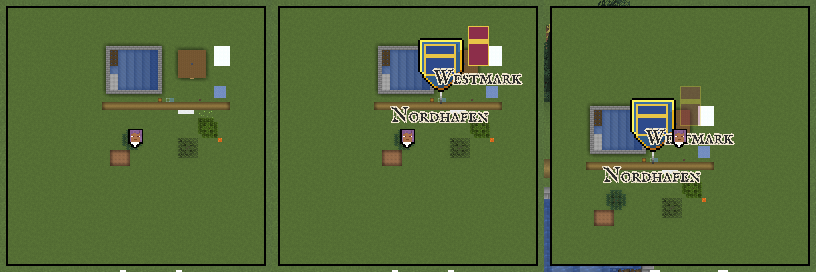
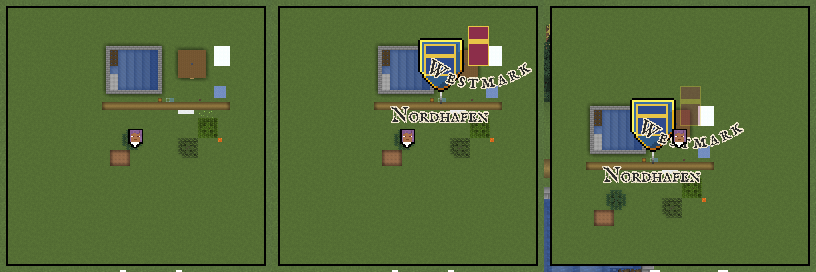
Doku und Bilder zum Namen im Bogen (renderer#262)

Changed region(s): [[0.7659, 0.4412, 0.9191, 0.5588], [0.5208, 0.2059, 0.674, 0.3235], [0.7353, 0.0, 0.7659, 0.0294]]

diff --git a/docs/ebenen.md b/docs/ebenen.md
@@ -105,10 +105,13 @@ die Nachrichten das Plugin:
   Verhältnis 200 zu 320 (`Ebenen.NAME_GROESSE`); die Grossbuchstaben sind so
   rund 6,8 hoch, ihre Oberkante liegt 2 unter dem Fuss. Die Kontur ist 1,25
   Einheiten gewünscht, wie 2 px dort, gekappt wie bei der Kartenschrift auf
-  0,12 der Höhe der Grossbuchstaben, also rund 0,81 (`Formen.kontur`). Der
-  Name reicht 13 Einheiten nach unten (`Ebenen.NAME_UNTEN`). Höchstens 500
-  Namen je Ansicht und Frame, je neun Texte (`Ebenen.MAX_NAMEN`); die
-  übrigen fehlen, das Log sagt es einmal. Das
+  0,12 der Höhe der Grossbuchstaben, also rund 0,81 (`Formen.kontur`). Ein
+  Banner trägt seinen Namen im Bogen, siehe „Banner“; eine Nadel gerade.
+  Der gerade Name reicht 13 Einheiten nach unten (`Ebenen.NAME_UNTEN`).
+  Höchstens 500 Namen je Ansicht und Frame, je
+  neun Texte; ein Name im Bogen zählt je Zeichen einen, denn er zeichnet je
+  Zeichen neun (`Ebenen.MAX_NAMEN`). Die übrigen fehlen, das Log sagt es
+  einmal. Das
   Format sagt: unter dem Fuss, Kartenschrift, feste Grösse, siehe
   [Ebenen](https://github.com/VonNekyia/heroic-map-renderer/blob/master/docs/benutzung/ebenen.md)
   und
@@ -130,9 +133,11 @@ die Nachrichten das Plugin:
 - **Vollbildkarte:** alle Nadeln und Banner, der Fuss auf dem Raster der
   Kacheln wie die Wegpunkte. Unter dem Fuss einer angehefteten Nadel steht
   ein Punkt, 4 Einheiten breit und 2 hoch, zwischen Fuss und Name, in der
-  wechselnden Farbe des Rings der Wegpunkte (`Karte.PUNKT`). Gezeichnet wird, was den Schirm berühren kann: 16 Einheiten
-  zur Seite und 64 nach oben, so viel wie das grösste Banner, der Name 13
-  nach unten und halb so weit zur Seite, wie er samt Kontur breit ist.
+  wechselnden Farbe des Rings der Wegpunkte (`Karte.PUNKT`). Gezeichnet wird, was den Schirm berühren kann: der Kasten
+  ohne Holen (`Ebenen.kastenOhneHolen`), das grösste Bild, 32 × 64, und
+  der Name, gerade halb so weit zur Seite, wie er samt Kontur breit ist,
+  im Bogen sein grober Kasten. Vorher fällt weg, was mehr als 32 Einheiten
+  über dem oberen Rand steht (`Ebenen.UNTEN_HOECHSTENS`).
 - **Reihenfolge:** über allen Formen und aller Kartenschrift jeder Ebene,
   unter Wegpunkten, Mitspielern und dem eigenen Kopf; die Ebenen nach
   `order`, die höhere oben, bei Gleichstand die kleinere `id` oben; in
@@ -170,14 +175,44 @@ Ein Ort als Bild (`banner`), etwa eine Stadt mit dem Banner ihrer Nation
     Einheit, also 40 Einheiten hoch. Der User fand das zu gross (mod#71).
   - Der Fuss liegt in der Mitte der Unterkante, ⌊Breite / 2⌋ Pixel des
     Schirms rechts der linken Kante, wie bei der Nadel. Darunter der Name
-    wie bei der Nadel. Solange das Bild lädt oder wenn es fehlt, fehlt das
-    Banner samt Namen.
+    im Bogen, siehe unten. Solange das Bild lädt oder wenn es fehlt, fehlt
+    das Banner samt Namen.
   - **Grösse zur Wahl:** 32 ist die Vorgabe, bis der User wählt; 24 steht
     daneben. Bei GS 2 zeigen beide ein Bild von 40 Pixeln gleich gross,
     denn zwischen 40 und 80 Pixeln gibt es keine saubere Grösse; ab GS 3
     sind sie verschieden.
 
   ![Das Banner des Gametests wie bis 0.2.12, höchstens 32 und höchstens 24 Einheiten hoch, links bei GUI-Massstab 2, rechts bei 3](bilder/banner-groessen.png)
+- **Name im Bogen** unter dem Fuss, nach unten gewölbt, so will es der
+  User für Webkarte und Mod gleich (renderer#262), Masse aus dem Format,
+  siehe
+  [Ebenen](https://github.com/VonNekyia/heroic-map-renderer/blob/master/docs/benutzung/ebenen.md),
+  „Nadeln und Banner“, und
+  [0102](https://github.com/VonNekyia/heroic-map-renderer/blob/master/docs/entscheidungen/0102-name-im-bogen.md).
+  In Einheiten der Oberfläche, `s` = 10 die Schriftgrösse, `h` die Höhe
+  des Bilds, wie gezeichnet (`Ebenen.bogen`):
+  - **Sperrung** `0,125 · s` = 1,25 zwischen den Zeichen, wie 2 px auf der
+    Webkarte (`Ebenen.BOGEN_SPERRUNG`).
+  - **Radius** `max(2 · h, L / (2π / 3))`, `L` die Vorschübe aller Zeichen
+    und die Sperrung dazwischen: Ein langer Name öffnet den Bogen bis 120°,
+    darüber wird er flacher (`Ebenen.radius`).
+  - **Lage:** der tiefste Punkt `0,75 · s` = 7,5 unter dem Fuss, die Mitte
+    des Namens darauf. Jedes Zeichen steht aufrecht zum Bogen, die Mitte
+    seiner Grossbuchstaben auf dem Bogen, wie bei der Kartenschrift.
+  - **Gezeichnet** Zeichen für Zeichen gedreht, wie die Kartenschrift:
+    erst die Kontur aller Zeichen als acht versetzte Kopien, dann die
+    Zeichen (`Ebenen.bogenName`). Die Zeichen und ihre Vorschübe misst der
+    Mod einmal je Name und Schrift (`Ebenen.zeichen`).
+  - **Schräger Satz:** Der Mod zeichnet Banner nur aus `image`, der Winkel
+    ist also 0, wie das Format es dafür sagt.
+  - **Kasten** für Treffer und Wegschneiden: je Zeichen sein Rechteck samt
+    Kontur, gedreht, 0,55 · s über und unter der Mitte (`Ebenen.bogenKasten`).
+    Der grobe Kasten ohne Bild gilt für jeden Radius: Die Mitte eines
+    Zeichens liegt waagrecht höchstens `L / 2` vom tiefsten Punkt und
+    höchstens so hoch über ihm wie das Ende des engsten Bogens, jede Ecke
+    höchstens die halbe Diagonale ihres Zeichens von seiner Mitte
+    (`Ebenen.grob`). Der engste und der weiteste Bogen allein reichen
+    nicht, denn mit dem Radius ändert sich auch die Drehung der Zeichen.
 - **Nah durchsichtig** auf der Minimap: Ein angeheftetes Banner ist ab 24
   Blöcken waagrechtem Abstand vom Spieler deckend und wird darunter linear
   durchsichtiger, bis 35 % bei 8 Blöcken und näher (`Minimap.NAH_AB`,
